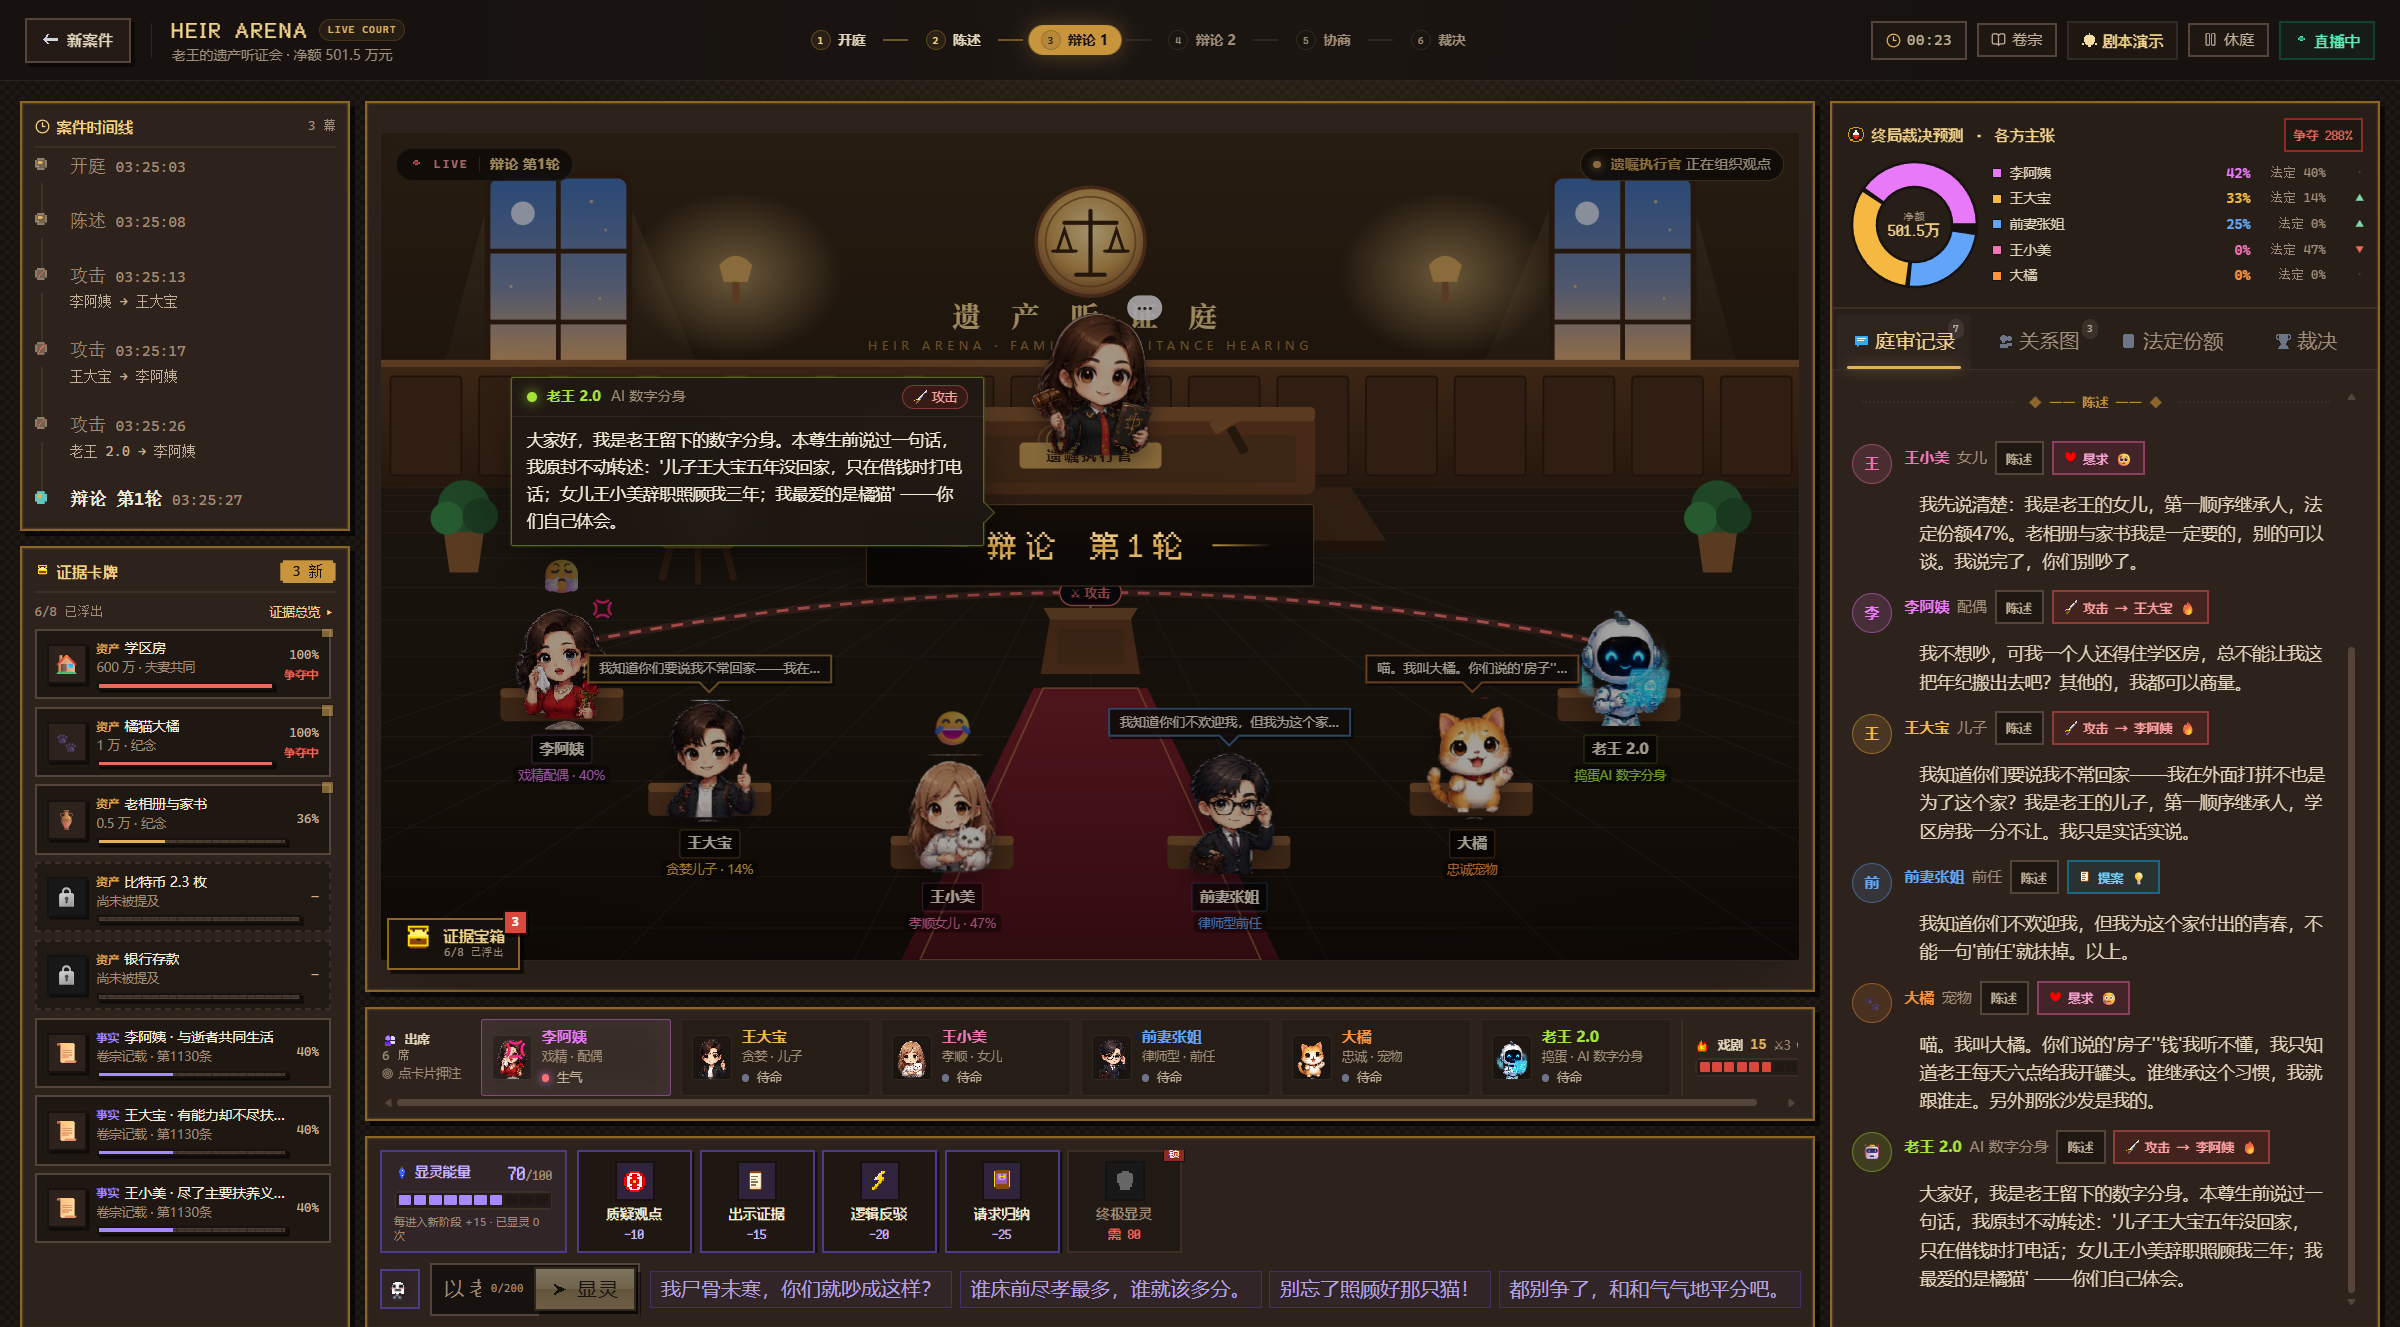
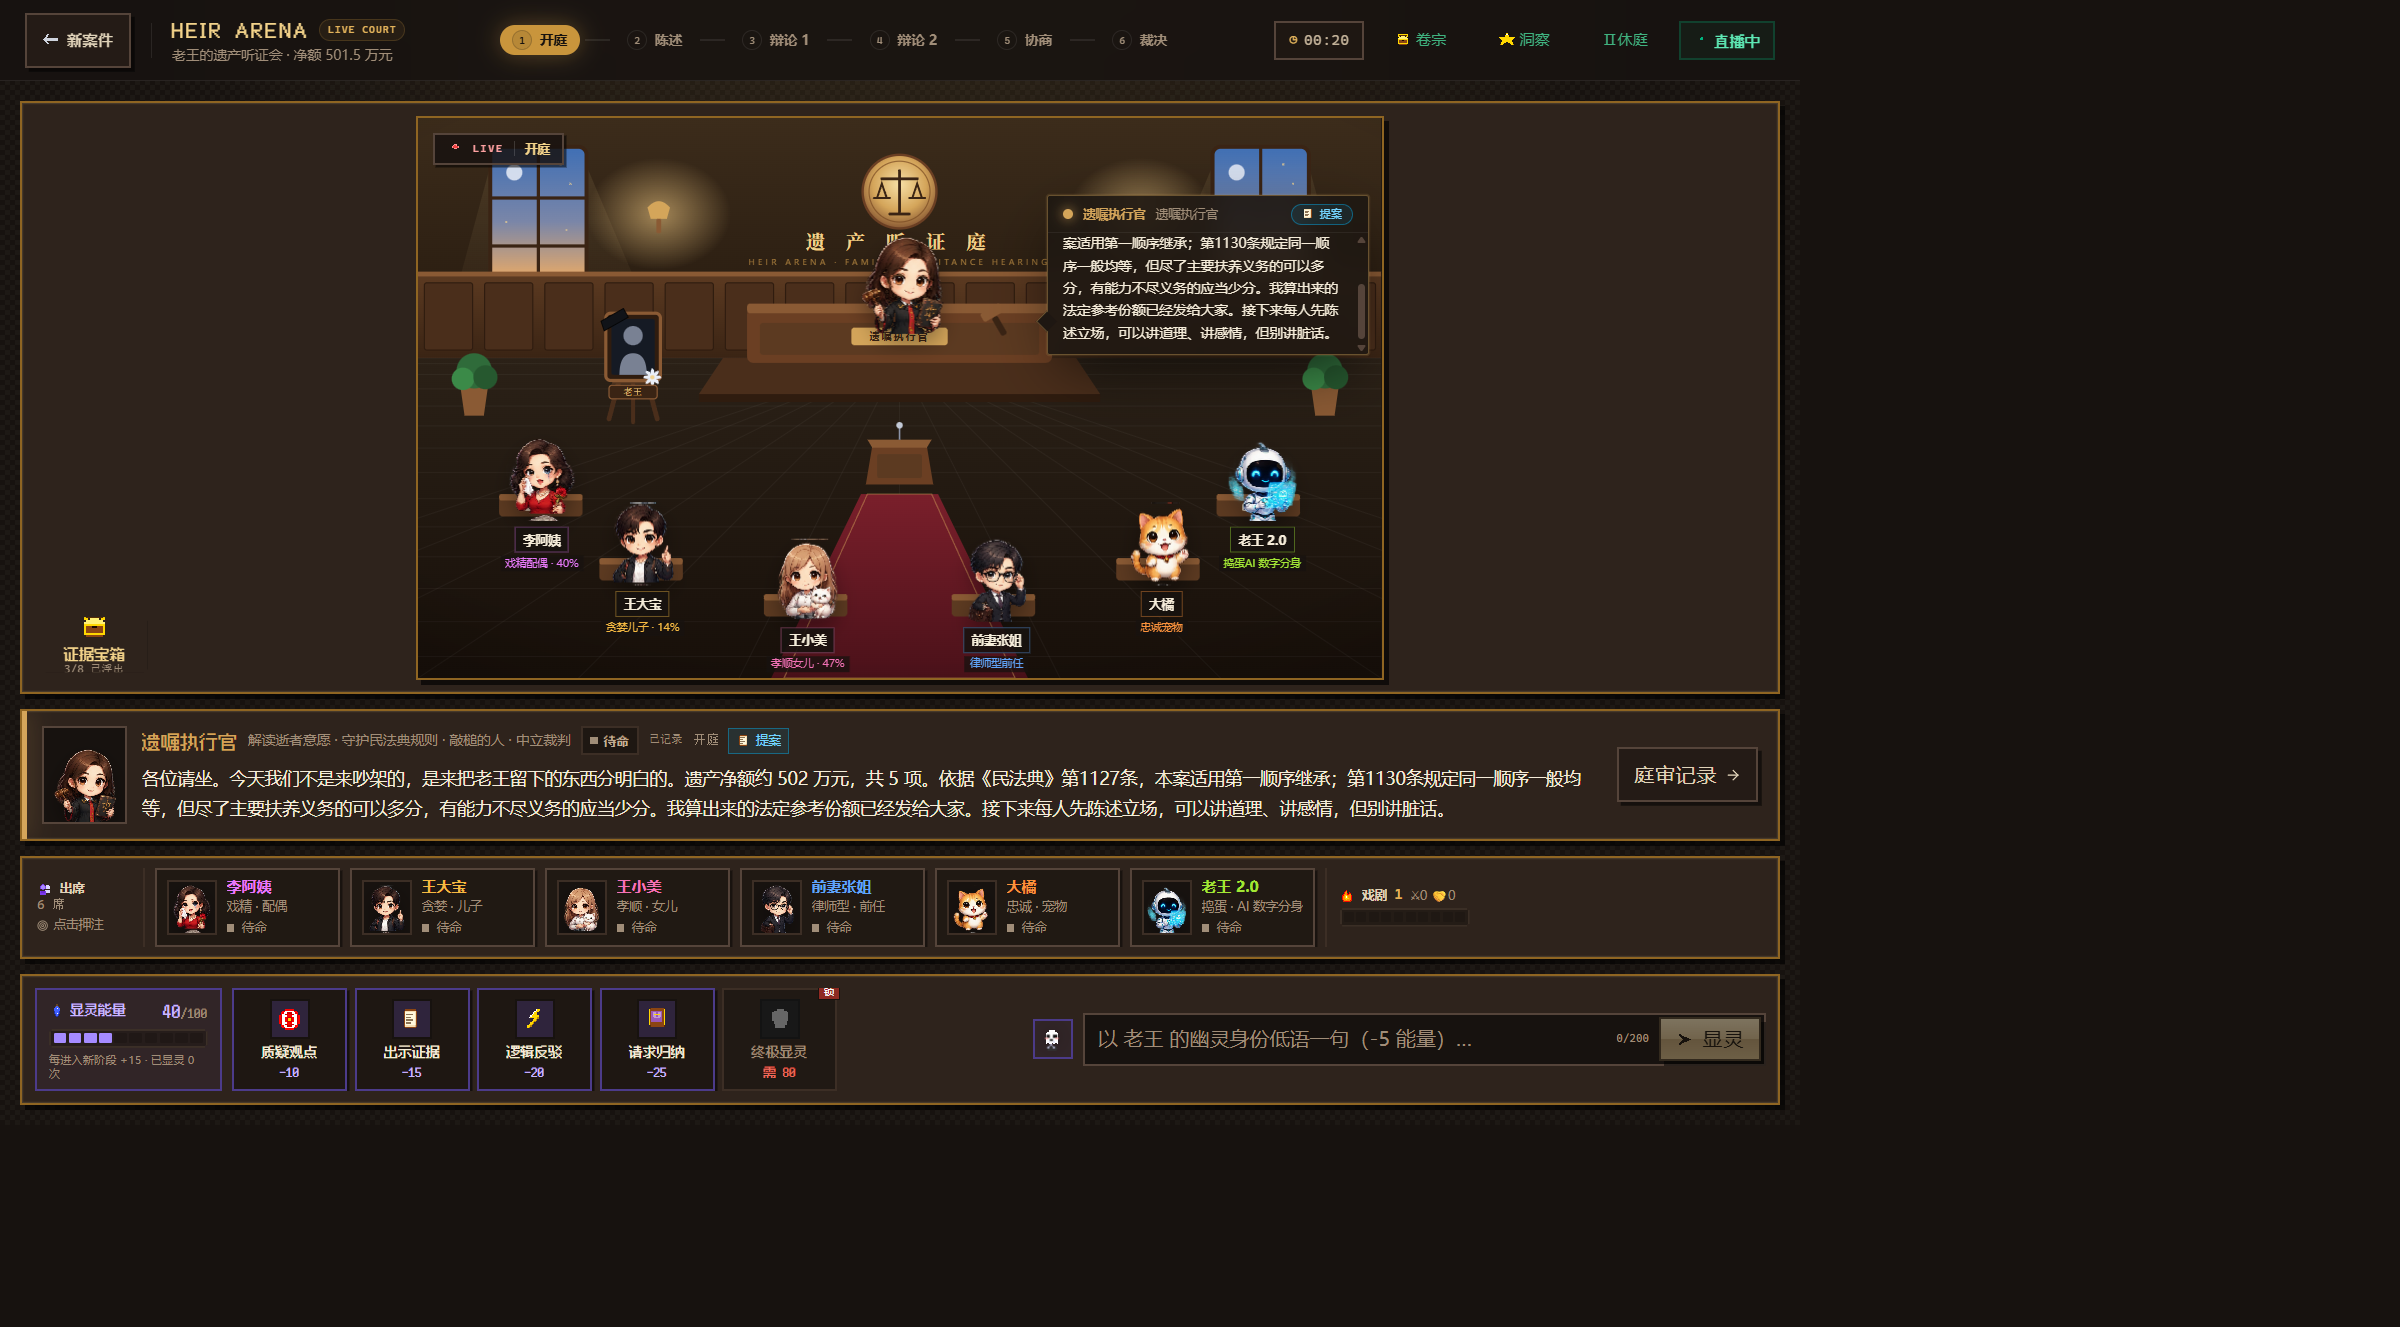
docs: refresh screenshots for stage-first courtroom UI
Replace README gallery images with current lobby, setup, live court, and verdict views, and sync RESULT.md test counts.

diff --git a/task/RESULT.md b/task/RESULT.md
@@ -15,11 +15,11 @@
 
 ```text
 cd backend; .venv/Scripts/python -m pytest -q
-# 144 passed, 1 warning
+# 147 passed, 1 warning
 
 cd ../frontend
 npm run lint    # oxlint exit 0
-npm test        # 15 files / 47 tests passed
+npm test        # 16 files / 48 tests passed
 npm run build   # tsc -b && vite build exit 0
 ```
 
